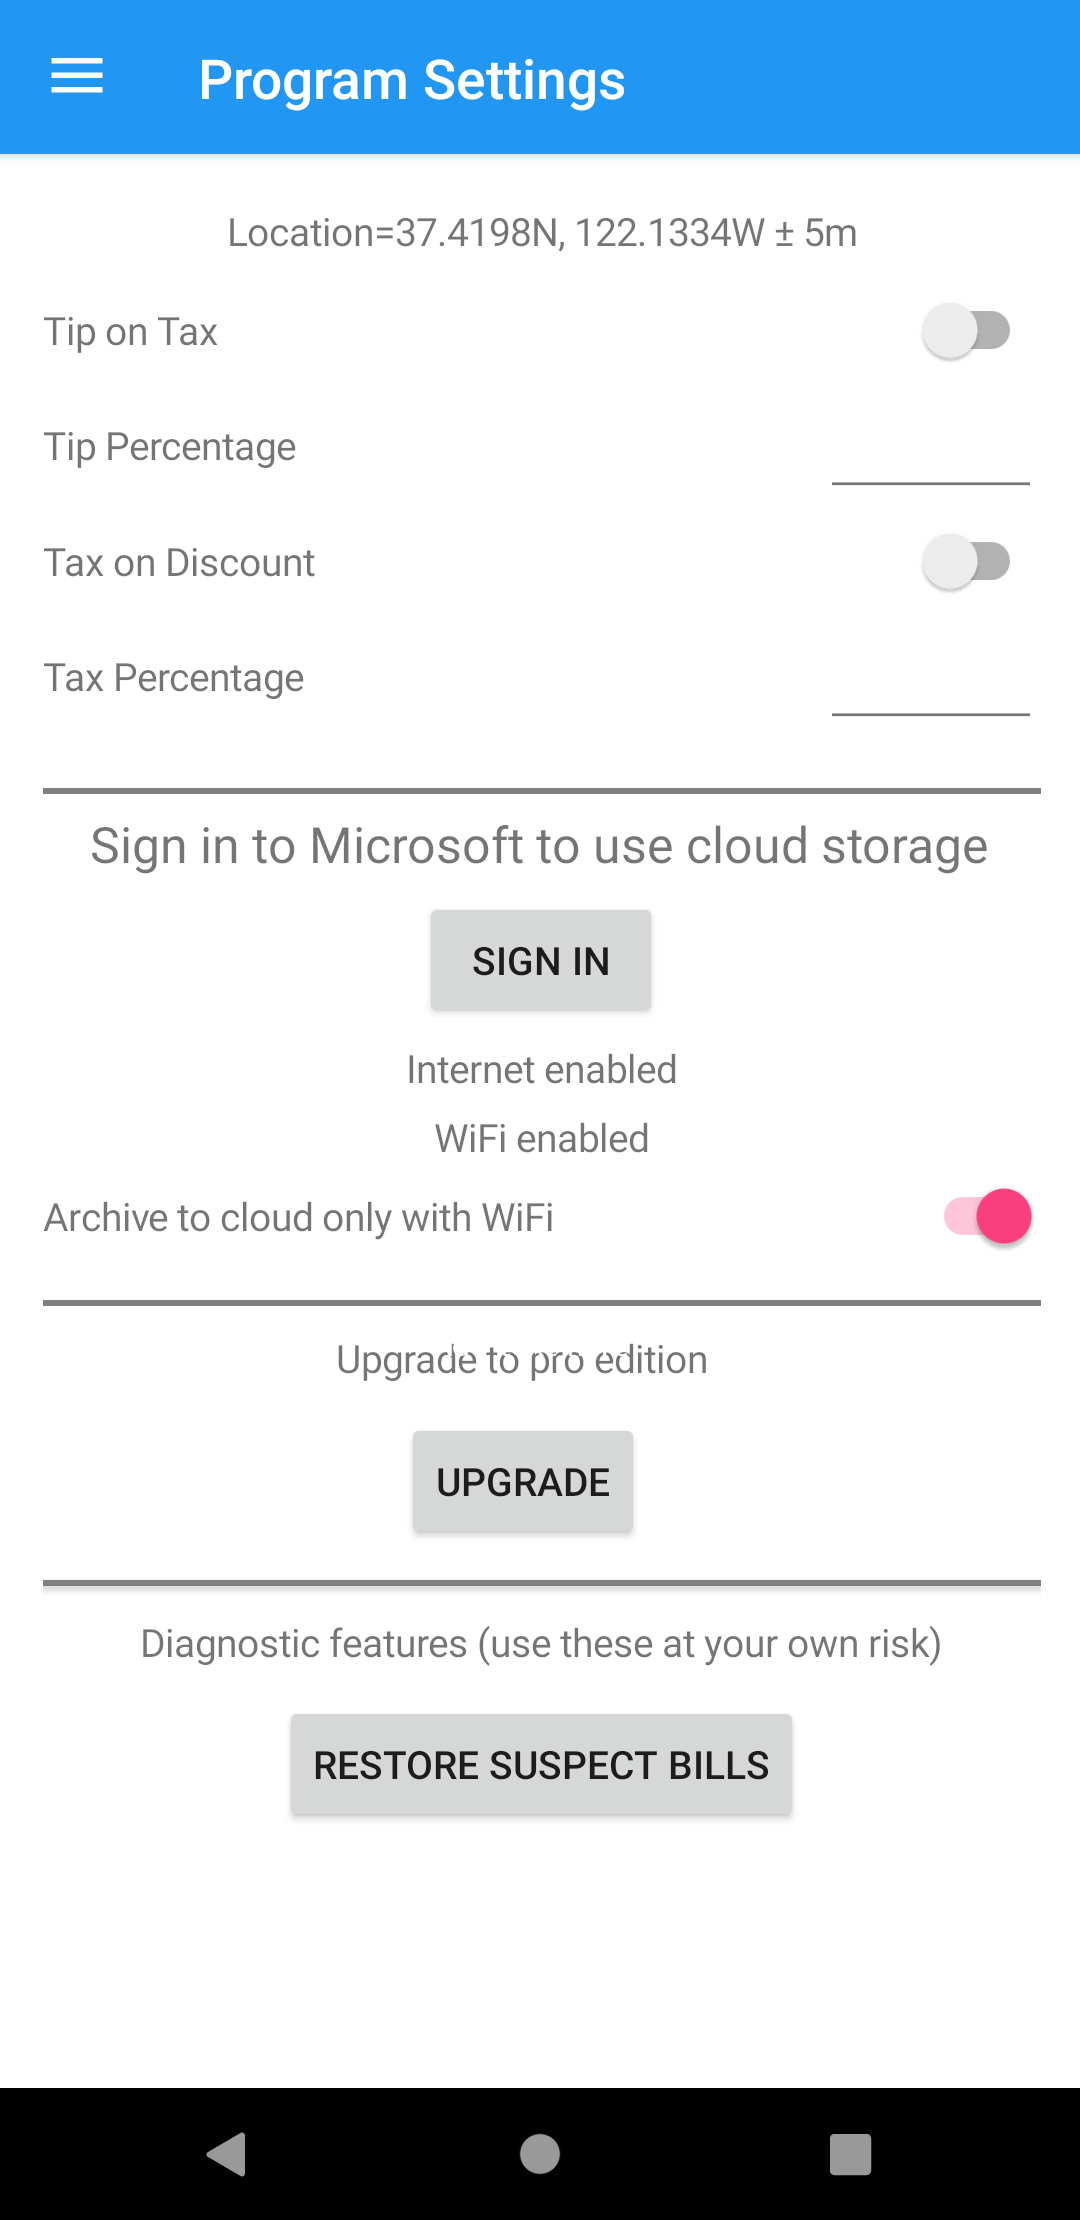
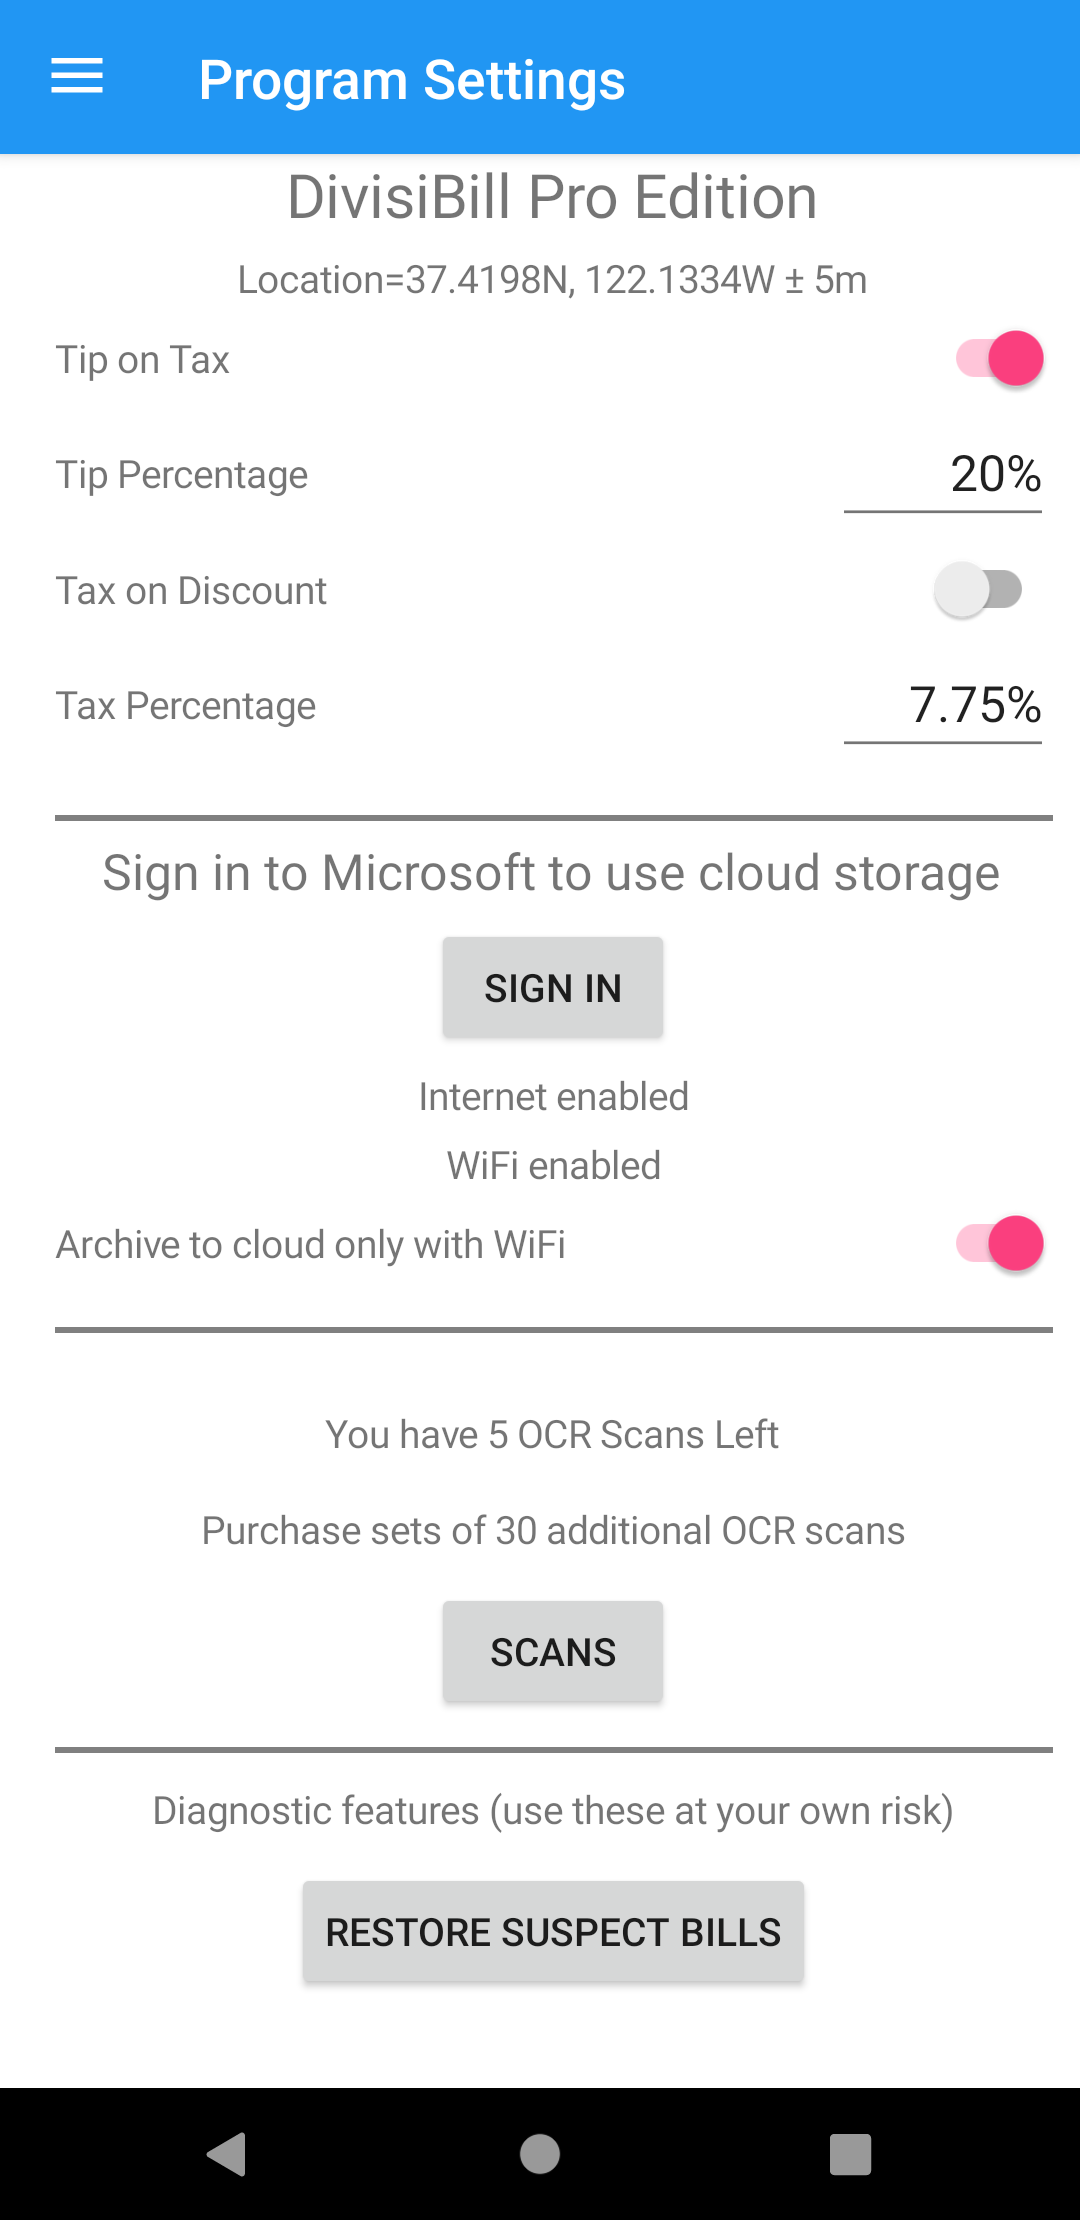
Update to 5.2.54
Full licensing implemetation

diff --git a/site/divisibill/settingsglossary.html b/site/divisibill/settingsglossary.html
@@ -7,16 +7,22 @@
 </head>
 <body>
     <h1 id="program-settings">Program Settings</h1>
-<p>This is a list of the less obvious areas on the program settings page as seen from left to right, top to bottom. You can see an image of the page itself <a href="settingspage.html">here</a>. If you reached this page by tapping one of the active areas in the page image, the relevant heading should be highlighted below.</p>
+<p>This is a list of areas on the program settings pages as seen from left to right, top to bottom, there are actually two alternative pages and this list applies to both. An image of the settings page for the Professional Edition is <a href="settingspage.html">here</a> or you can see an image of the page for the basic edition <a href="settingspagebasic.html">here</a>. If you reached this list by tapping one of the active areas in the page image, the relevant heading should be highlighted below.</p>
+<h2 id="title">Title</h2>
+<p>This line tells you whether you are using the Basic edition or have purchased a professional upgrade and have additional features (OCR and cloud storage) enabled.</p>
 <h2 id="location">Location</h2>
-<p>You can specify the tax either as a percentage, in which case the amount will be calculated, or an amount, in which case the program will calculate a tax rate rounded to the nearest 0.25% and if necessary calculate an adjustment (called a tax delta) amount to make the numbers add up.</p>
+<p>This shows the current latitude and longitude of the place where the program thinks it is along with the estimated accuracy of that location. This is the value that will be used for the location of any new venue you create.</p>
+<h2 id="defaults">Defaults</h2>
+<p>This area allows you to set defaults for various things, DivisiBill will warn you if the current bill is not using these defaults. This is especially helpful to warn you when you base a new bill on an older one and inherit old values that are no longer correct.</p>
+<h2 id="upgrade">Upgrade</h2>
+<p>If you are running the basic edition this allows you to purchase a professional upgrade. The Basic Edition of DivisiBill cannot use cloud features like OCR scanning and automatic backup. For those features you'll need the Professional Upgrade. For more details see  <a href="licensing.html">this</a> page.</p>
 <h2 id="login">Login</h2>
-<p>This area is used either to sign in to the Microsoft Azure cloud to save data to OneDrive or to sign out if you don't wish to connect to the cloud. If you are signed in it will show a little information about the signed in user.</p>
-<p>The first time DivisiBill runs after being installed it will ask you to sign in so as to be able to check for existing data on line. You need not do so, use of the cloud is completely optional.</p>
+<p>This area is available only on the professional edition, it is used either to sign in to the Microsoft Azure cloud in order to save data to OneDrive, or to sign out if you don't wish to remain connected to the cloud. If you are signed in it will show a little information about the signed in user.</p>
+<p>The first time DivisiBill professional runs after being installed it will ask you to sign in so as to be able to check for existing data on line. You need not do so, use of the cloud is completely optional.</p>
 <h2 id="wifi">WiFi</h2>
-<p>DivisiBill automatically backs up changed items and lists to the cloud if it is enabled, setting this option limits backups to occur only when a WiFi connection is available so as to minimize the use of mobile data.</p>
-<h2 id="license">License</h2>
-<p>The free version of DivisiBill can handle simple bills, for more features you'll need the pro license. For details of licensing see  <a href="licensing.html">this</a> page.</p>
+<p>This selection is available only in the professional edition. DivisiBill automatically backs up changed items and lists to the cloud if cloud access is enabled, setting this option limits backups to occur only when a WiFi connection is available so as to minimize the use of mobile data.</p>
+<h2 id="scans">Scans</h2>
+<p>The Professional Edition of DivisiBill can use cloud based OCR scanning to extract information from a picture of a printed bill. Each scan is charged and when the number remaining reaches zero you must buy more before another scan will be allowed. More more details see  <a href="licensing.html">this</a> page.</p>
 <h2 id="diagnostics">Diagnostics</h2>
 <p>Only use this area on the advice of DivisiBill Support.</p>
 

diff --git a/site/divisibill/licensing.html b/site/divisibill/licensing.html
@@ -7,55 +7,12 @@
 </head>
 <body>
     <h1 id="licensing">Licensing</h1>
-<p>The free version of DivisiBill does not show ads and can handle simple bills but it has some limitations. The <a href="settingspage.html">settings</a> page allows you to license additional features using the <a href="settingsglossary.html#license">license</a> area. You can license the pro features and once you have done that you can buy extra packages of OCR actions if you use up the included ones.</p>
-<h2 id="pro-features">Pro Features</h2>
-<p>The pro edition mostly allows you to use more of various features as follows:</p>
-<table>
-<thead>
-<tr>
-<th>Feature</th>
-<th style="text-align: center;">Pro</th>
-<th style="text-align: center;">Free</th>
-</tr>
-</thead>
-<tbody>
-<tr>
-<td>Participants per Bill</td>
-<td style="text-align: center;">Unlimited</td>
-<td style="text-align: center;">4</td>
-</tr>
-<tr>
-<td>Items Per Bill</td>
-<td style="text-align: center;">Unlimited</td>
-<td style="text-align: center;">4</td>
-</tr>
-<tr>
-<td>Venues</td>
-<td style="text-align: center;">Unlimited</td>
-<td style="text-align: center;">10</td>
-</tr>
-<tr>
-<td>People</td>
-<td style="text-align: center;">Unlimited</td>
-<td style="text-align: center;">10</td>
-</tr>
-<tr>
-<td>Saved Bills</td>
-<td style="text-align: center;">Unlimited</td>
-<td style="text-align: center;">10</td>
-</tr>
-<tr>
-<td>OCR Capable</td>
-<td style="text-align: center;">Yes</td>
-<td style="text-align: center;">No</td>
-</tr>
-</tbody>
-</table>
-<p>DivisiBill verifies you have a pro license during startup. It is possible there is no Internet connection at startup and in that case DivisiBill checks when it was last able to verify a license and if it was within a couple of weeks just goes ahead and assumes you have one.</p>
+<p>The Basic Edition of DivisiBill does not show ads and can handle most bills but it has some limitations. The <a href="settingspagebasic.html">settings</a> page allows you to buy additional features. You can use this page to <a href="settingsglossary.html#upgrade">upgrade to the Professional Edition</a> and once you have done that you can <a href="settingsglossary.html#scans">buy extra packages of OCR scans</a> if you use up the included ones (for more details on OCR see below).</p>
+<p>The Professional Edition also enables cloud backup and storage of bills, venue lists and people lists. The <a href="settingspage.html">settings</a> page for the professional Edition has a few additional options in order to support these features.</p>
 <h2 id="ocr">OCR</h2>
 <p>OCR stands for Optical Character recognition; it allows you to send a picture of the bill to a cloud based service to be scanned into item names and amounts and a few other useful values. It cannot help you distribute the cost of items - only you know who had what - but it can take a lot of the tedium out of the data entry process.</p>
-<p>Each OCR scan costs a few cents, and once you purchase the pro edition you'll have an initial credit of 30 OCR scans. You can buy more in blocks of 30 at a time. You will retain any credits through an upgrade but if you uninstall and reinstall DivisiBill you'll lose any scan credits and have to buy more before you can use the scan feature again (your pro license will be preserved, it's just scan credits that are lost).</p>
-<p>Modern mobile phones can take very high resolution pictures, these are unnecessarily large and detailed for OCR so DivisiBill reduces the resolution and converts them to black and white before saving them to save storage space and transmission time.</p>
+<p>Each OCR scan costs a few cents, and once you purchase the Professional Edition you'll have an initial credit of 5 OCR scans. You can buy more in blocks of 30 at a time. You will retain any OCR credits through an upgrade or if you uninstall and reinstall DivisiBill.</p>
+<p>Modern mobile phones can take very high resolution pictures, these are unnecessarily large and detailed for OCR so DivisiBill reduces the resolution and converts them to black and white before saving them to save storage space and to save transmission time when OCR is being performed.</p>
 
     <script>
         let li = window.location.href.lastIndexOf("#");

diff --git a/site/divisibill/index.html b/site/divisibill/index.html
@@ -10,17 +10,11 @@
 <img alt="Logo" src="divisibill_scalable_red.svg" style="width:20%"/>
 <p>DivisiBill is simple in concept, it has two lists, participants and items. Each item has
 a description and a cost which is divided (perhaps unevenly) between one or more participants.
-The program does the rest, calculating tax and tip and dividing them fairly among the participants.
-For hints on getting started see <a href="gettingstarted.html">Getting Started</a>.</p>
-<p>The free version of the program can handle simple bills, upgrade to the pro edition for more complex bills and
-bill scanning, see <a href="licensing.html">licensing</a>.</p>
-<p>With the pro version you can scan a bill and get items entered automatically or each item on a bill can be entered
-manually. Scanned items can be added to or edited manually. Once a list of items has been entered you add a list of
-participants and indicate the division of each item between them.</p>
+The program does the rest, calculating tax and tip and dividing them fairly among the participants. For hints on getting started see <a href="gettingstarted.html">Getting Started</a>.</p>
+<p>The Basic Edition of the program is free and does everything it can locally; upgrade to the Professional Edition for cloud access and bill scanning, see <a href="licensing.html">licensing</a>.</p>
+<p>With the professional edition you can scan a bill and get items entered automatically or each item on a bill can be entered manually. Scanned items can be added to or edited manually. Once a list of items has been entered you add a list of participants and indicate the division of each item between them.</p>
 <h2 id="pages">Pages</h2>
-<p>There are over a dozen different pages in DivisiBill but the most important are Items and Totals.
-Items is where you list as many purchased items as you like and Totals is where the total amount for each of
-up to 10 participants is listed.</p>
+<p>There are over a dozen different pages in DivisiBill but the most important are Items and Totals. Items is where you list as many purchased items as you like and Totals is where the total amount for each of up to 10 participants is listed.</p>
 <p>Other pages show a list of all possible people you might use on bills along with optional e-mail
 addresses, a list of possible venues with optional notes and locations, properties of the current
 bill, program settings and so on. You can switch between pages using by using the hamburger icon (<u></u>) at
@@ -33,7 +27,8 @@ page. The main pages are:</p>
 <li><a href="meallistpage.html">List of saved bills</a> sorted by age, name or distance</li>
 <li><a href="venuelistviewpage.html">List of venues</a> sorted by name or distance</li>
 <li><a href="peoplelistpage.html">List of People</a> sorted by name</li>
-<li><a href="settingspage.html">Program Settings</a> including <a href="licensing.html">licensing</a></li>
+<li><a href="settingspagebasic.html">Basic Program Settings</a> including <a href="licensing.html">licensing</a></li>
+<li><a href="settingspage.html">Professional Program Settings</a></li>
 <li><a href="helppage.html">Information and Help</a></li>
 </ul>
 <p>In addition there are a few other subsidiary pages reached from these.</p>

diff --git a/site/index.html b/site/index.html
@@ -2,11 +2,12 @@
 <meta name="viewport" content="width=device-width, initial-scale=1.0">
 <html>
 <head>
-    <title>DivisiBill by AutoPlus</title>
+    <title>DivisiBill</title>
     <link rel="stylesheet" href="divisibill/styles.css">
 </head>
 <body>
-    <h1 id="divisibill-by-autoplus">DivisiBill by AutoPlus</h1>
+    <h1 id="divisibill">DivisiBill</h1>
+<p align=center>by AutoPlus Software</p>
 <p align=center> <img alt="Logo" height="200" src="divisibill/divisibill_scalable_red.svg" style="width:20%"/></p>
 <p>If you are tired of unfair results at a restaurant when the bill is split evenly,
 DivisiBill is the answer.</p>
@@ -34,9 +35,9 @@ to back up and restore files or send mail).</p>
 <h2 id="more-information">More Information</h2>
 <p>The Android version of DivisiBill is in private beta, send email if you're interested.</p>
 <p>To contact support or sales click <a href="mailto:support@autopl.us?subject=DivisiBill%20Mail%20from%20AutoPlus%20web%20page">here</a>.</p>
-<h2 id="what-is-autoplus">What is AutoPlus?</h2>
-<p>AutoPlus is a company originally formed to market a body shop management tool
-of the same name. That product went out of support years ago.</p>
+<h2 id="what-is-autoplus-software">What is AutoPlus Software?</h2>
+<p>AutoPlus Software is a company originally formed to market a body shop management tool
+called AutoPlus. That product went out of support years ago.</p>
 <h2 id="whats-with-the-logo">What's With the Logo?</h2>
 <p>It's meant to represent a bill being torn (split, get it?) into multiple pieces, clearly
 the work of a programmer, not an artist...</p>

diff --git a/site/divisibill/imagepage.html b/site/divisibill/imagepage.html
@@ -7,7 +7,7 @@
 </head>
 <body>
     <h1 id="image-page">Image Page</h1>
-<p>This is where you go to take a picture of the bill (or load it from a file). If you have upgraded to the pro version you can also scan it to extract the data using OCR (optical character recognition). The scanning is actually done by a web service so to minimize the amount of irrelevant data that is sent DivisiBill first converts an imported picture to gray scale and a lower resolution.</p>
+<p>This is where you go to take a picture of the bill (or load it from a file). If you have upgraded to the Professional Edition you can also choose to scan it to extract the data using OCR (optical character recognition). The scanning is actually done by a web service so to minimize the amount of irrelevant data that is sent DivisiBill first converts an imported picture to gray scale and a lower resolution.</p>
 <p>Tap on a highlighted area to see what it does (on a desktop browser you can also hover over an area to see its name).</p>
 <p><object type=image/svg+xml data="imagepage.svg" height=200 style="width:90%"></object></p>
 

diff --git a/site/divisibill/settingspagebasic.html b/site/divisibill/settingspagebasic.html
@@ -7,9 +7,9 @@
 </head>
 <body>
     <h1 id="program-settings-page">Program Settings Page</h1>
-<p>This is where the program settings (like default tip or tax rates) are entered and where you purchase OCR scans.</p>
+<p>This is where the program settings (like default tip or tax rates) are entered for the Basic Edition of the program (without the Professional Edition upgrade).</p>
 <p>Most fields are self evident but you can tap on any highlighted area to get further explanation (on a desktop browser you can also hover over an area to see its name).</p>
-<p><object type=image/svg+xml data="settingspage.svg" height=600 style="width:90%"></object></p>
+<p><object type=image/svg+xml data="settingspagebasic.svg" height=600 style="width:90%"></object></p>
 
     <script>
         let li = window.location.href.lastIndexOf("#");

diff --git a/site/divisibill/imageglossary.html b/site/divisibill/imageglossary.html
@@ -17,7 +17,7 @@
 <h3 id="load-image">Load Image (<u>亮</u>)</h3>
 <p>Allows you to browse through existing images to select one to use for the bill..</p>
 <h3 id="ocr">OCR (<u></u>)</h3>
-<p>If you have the pro version of DivisiBill this uses a web service in the cloud to scan the image to create input for the current bill.</p>
+<p>If you have the Professional Edition version of DivisiBill this uses a web service in the cloud to scan the image to create input for the current bill.</p>
 <h3 id="delete">Delete (<u>啕</u>)</h3>
 <p>Removes the association between the current image and the current bill.</p>
 <h2 id="image-area">Image Area</h2>

diff --git a/site/divisibill/icons.html b/site/divisibill/icons.html
@@ -89,6 +89,10 @@ not all of these icons are currently used though most are:</p>
 <td style="text-align: center;"><u></u></td>
 </tr>
 <tr>
+<td>List</td>
+<td style="text-align: center;"><u></u></td>
+</tr>
+<tr>
 <td>Load</td>
 <td style="text-align: center;"><u></u></td>
 </tr>
